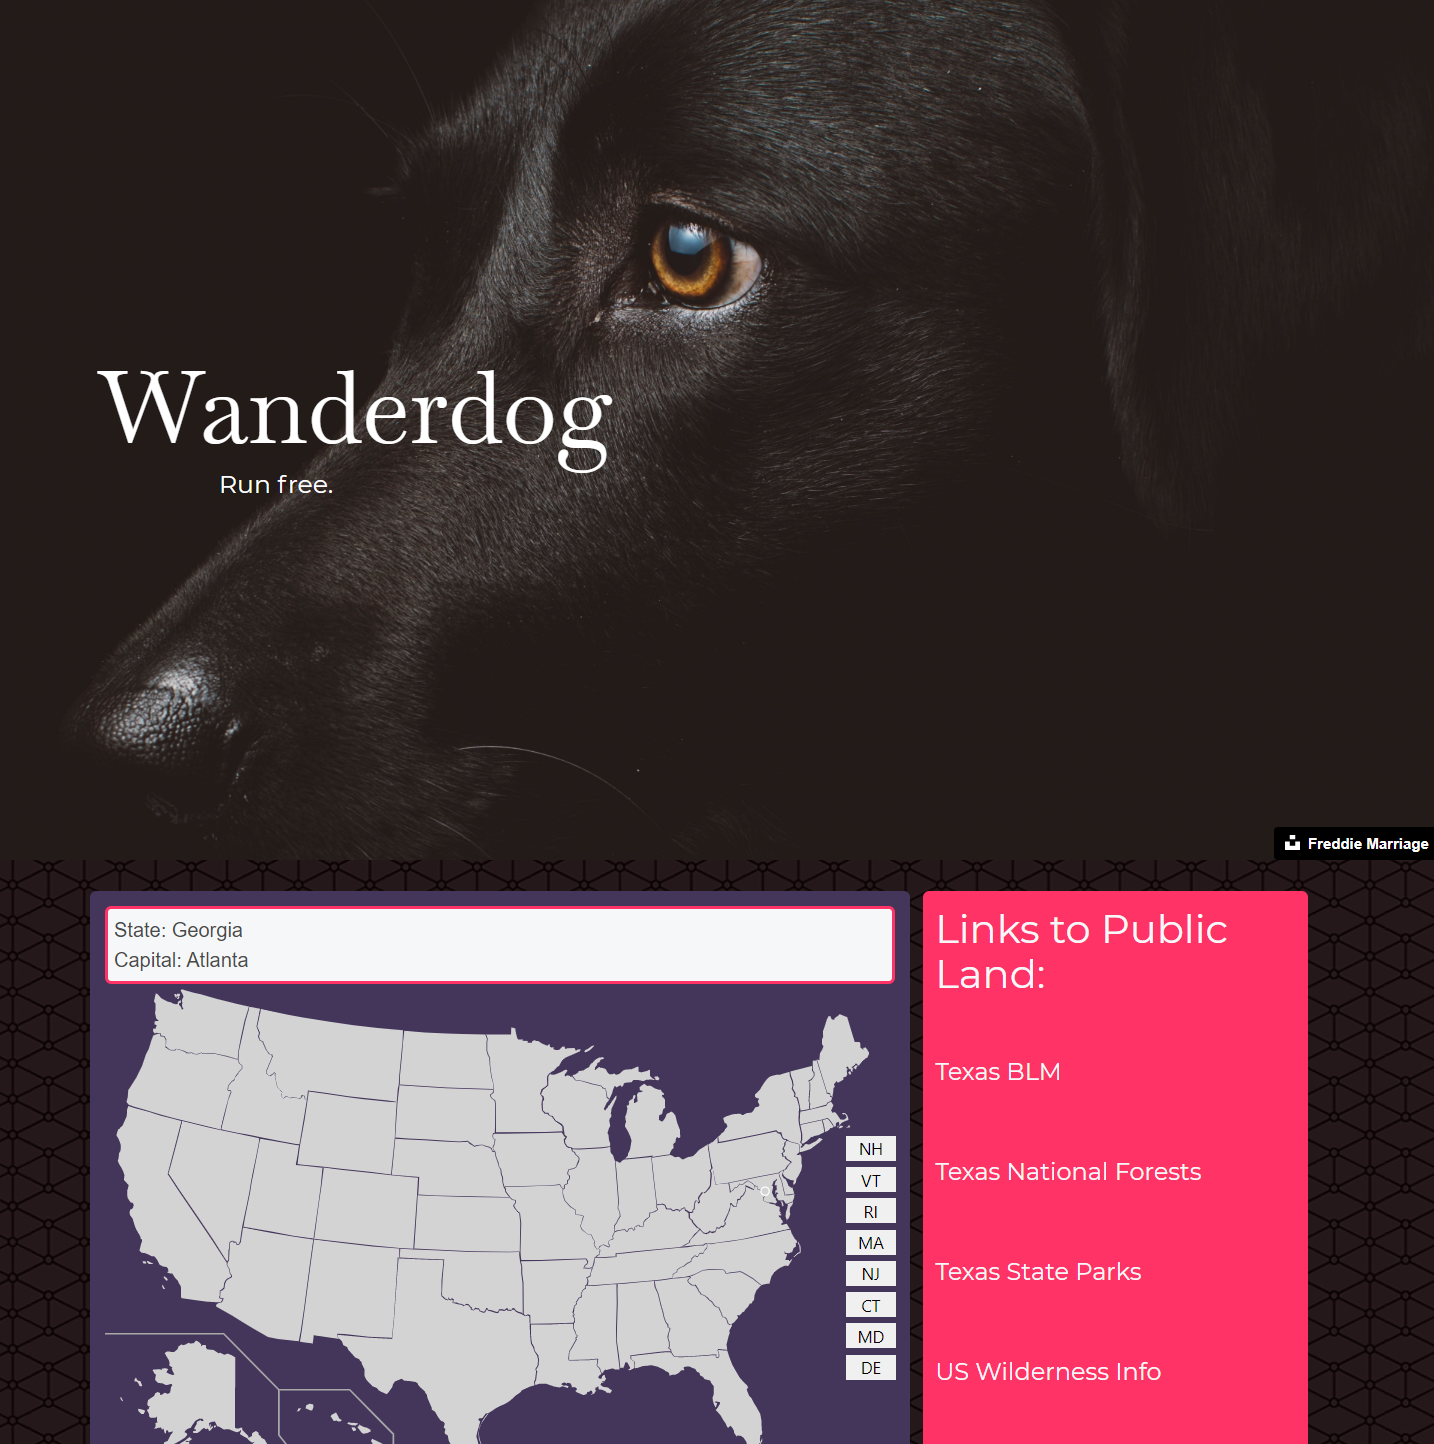
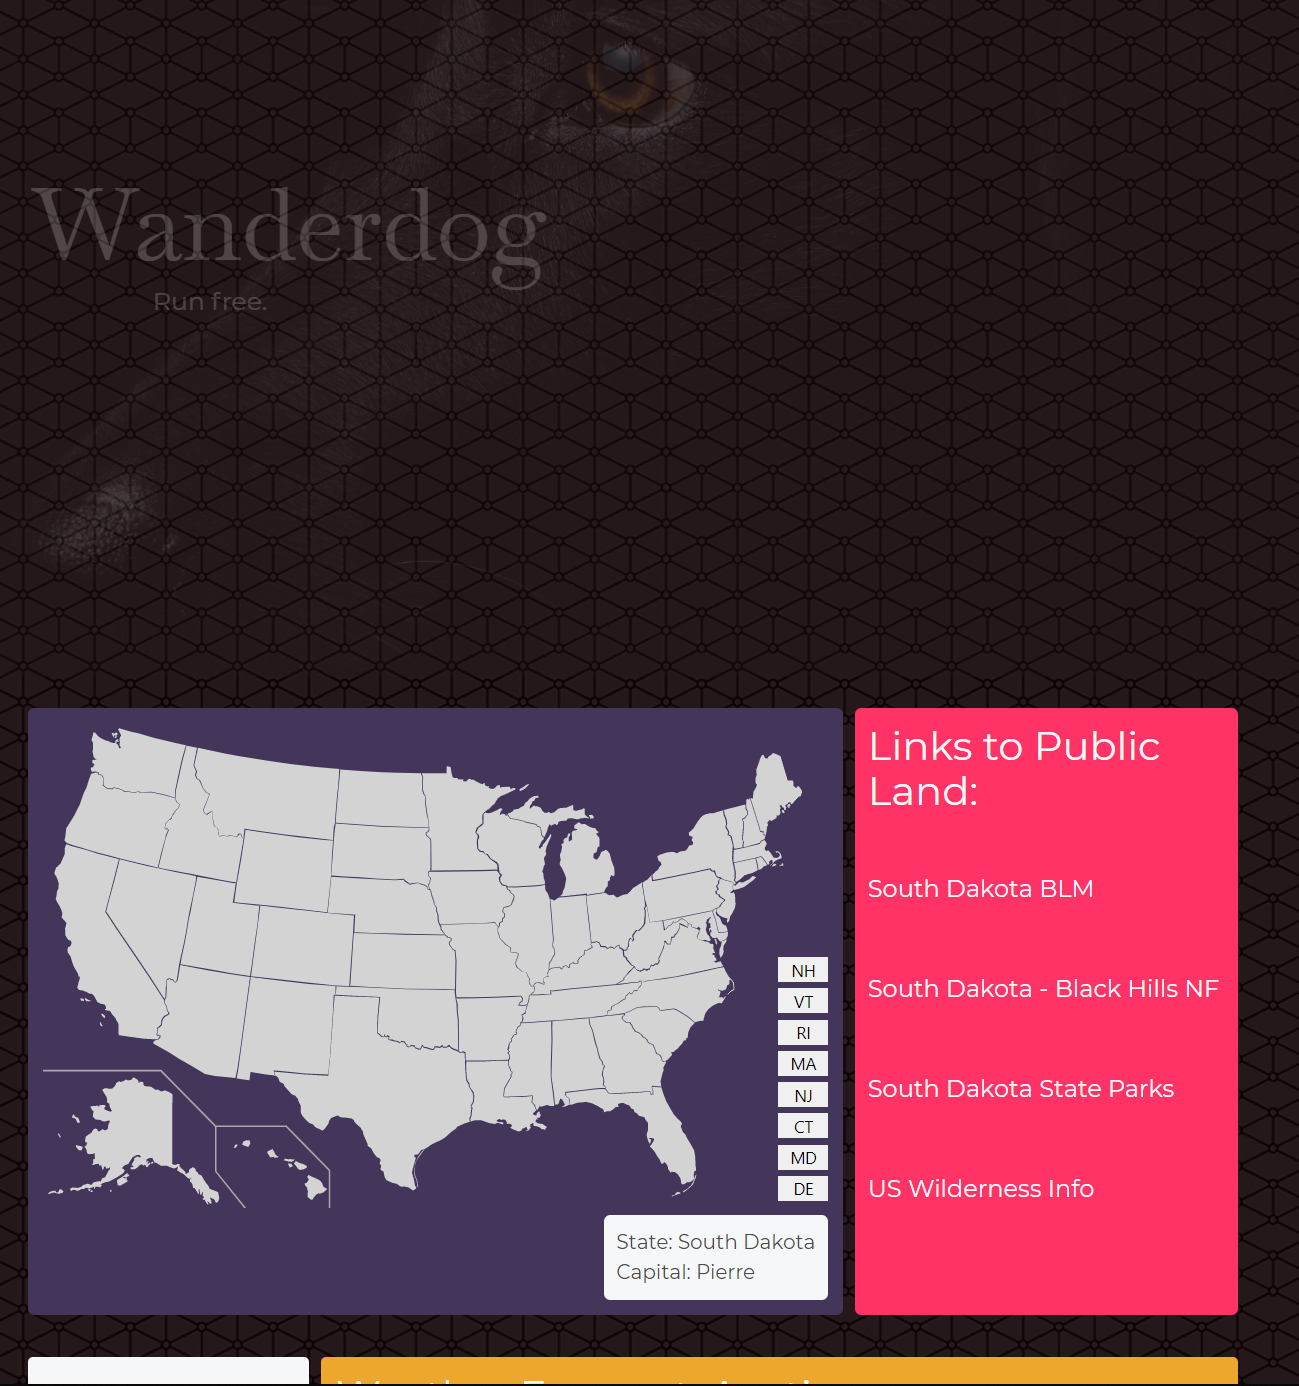
adjusted readme screenshot

diff --git a/assets/style.css b/assets/style.css
@@ -285,21 +285,26 @@ clickable map css */
     padding: 10px;
     font-family: 'Montserrat', sans-serif;
     font-weight: 550;
+    margin-top: 5px;
   }
 
 /* Above is the map */
 
-
-
 @media screen and (max-width: 768px) {
     body {
       text-align: left;
+    }
+    #info-box {
+        float: none;
     }
   }
 
   @media screen and (max-width: 640px) {
     body {
       text-align: center;
+    }
+    #info-box {
+        float: none;
     }
     .buttonGroup button {
         display: auto;

diff --git a/README.md b/README.md
@@ -12,7 +12,8 @@ As dog owners, we wanted to find areas in the US where we can camp/hike with our
 
 ## Wireframe
 
-Please forgive our rough sketch.
+Please forgive our rough sketch. 
+<br>
 <img src="assets/images/wireframe.jpg" width="50%" height="auto">
 
 ## How to use Wanderdog
